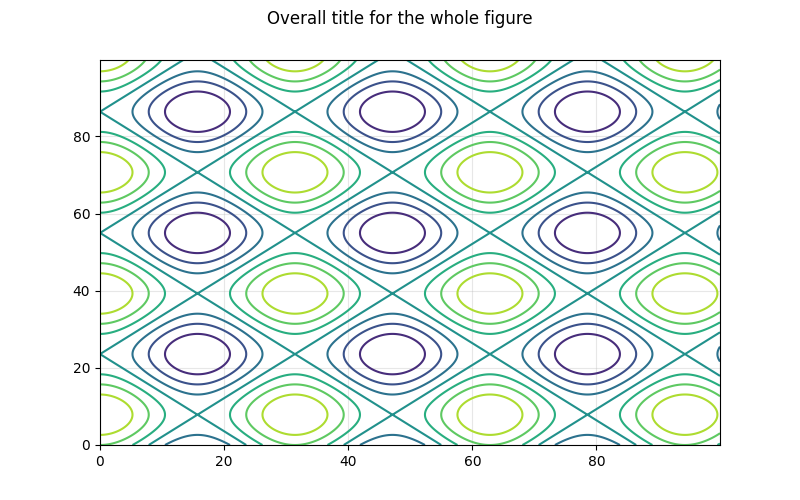
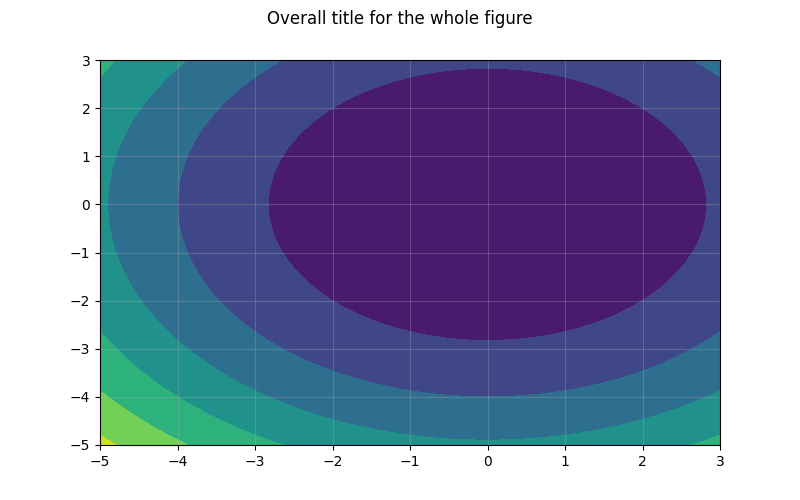
a7

diff --git a/matplotlib/silly/Yes...This Extension Works.PY b/matplotlib/silly/Yes...This Extension Works.PY
@@ -30,16 +30,18 @@ ax.grid(True, alpha=0.3)
 # x = np.asarray([[random.uniform(-1, 1) for _ in range(5)] for _ in range(5)], dtype=np.float32)
 # ax.imshow(x)
 
-X = np.arange(0, 100, 0.1)
-Y = np.arange(0, 100, 0.2)
-
-[X, Y] = np.meshgrid(X, Y)
+# X = np.arange(random.randint(0, 100), random.randint(100, 200), random.randint(0, 10))
+# Y = np.arange(random.randint(0, 100), random.randint(100, 200), random.randint(0, 10))
 
 # Z = X + Y
-Z = np.cos(X) + np.sin(Y)
-Z = np.cos(X / 5) + np.sin(Y / 5)
+# Z = np.cos(X) + np.sin(Y)
+# Z = np.cos(X / 5) + np.sin(Y / 5)
 
-ax.contour(X, Y, Z)
+X = np.linspace(-5.0, 3.0, 70)
+Y = np.linspace(-5.0, 3.0, 70)
+[X, Y] = np.meshgrid(X, Y)
+Z = X ** 2 + Y ** 2
+ax.contourf(X, Y, Z)
 
 plt.show()
 fig.savefig("img/plot.png")